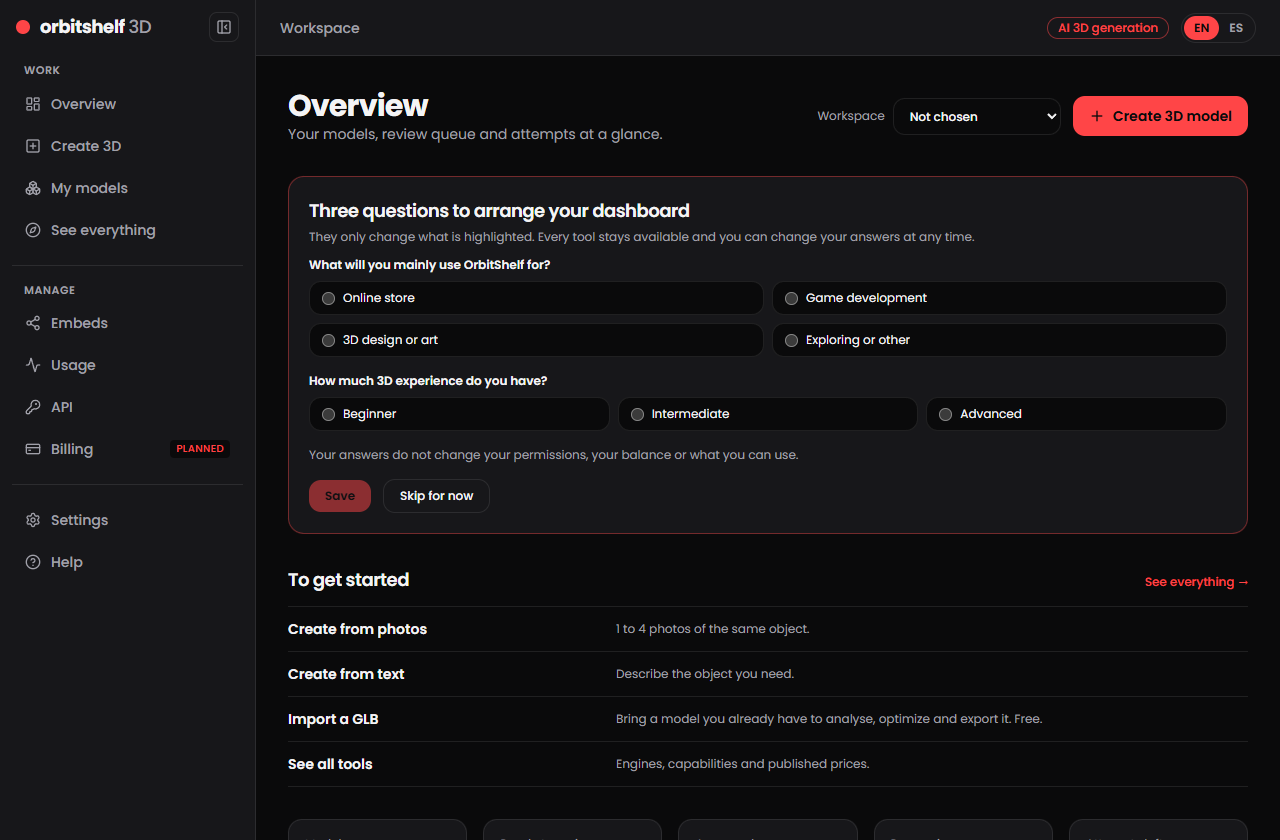
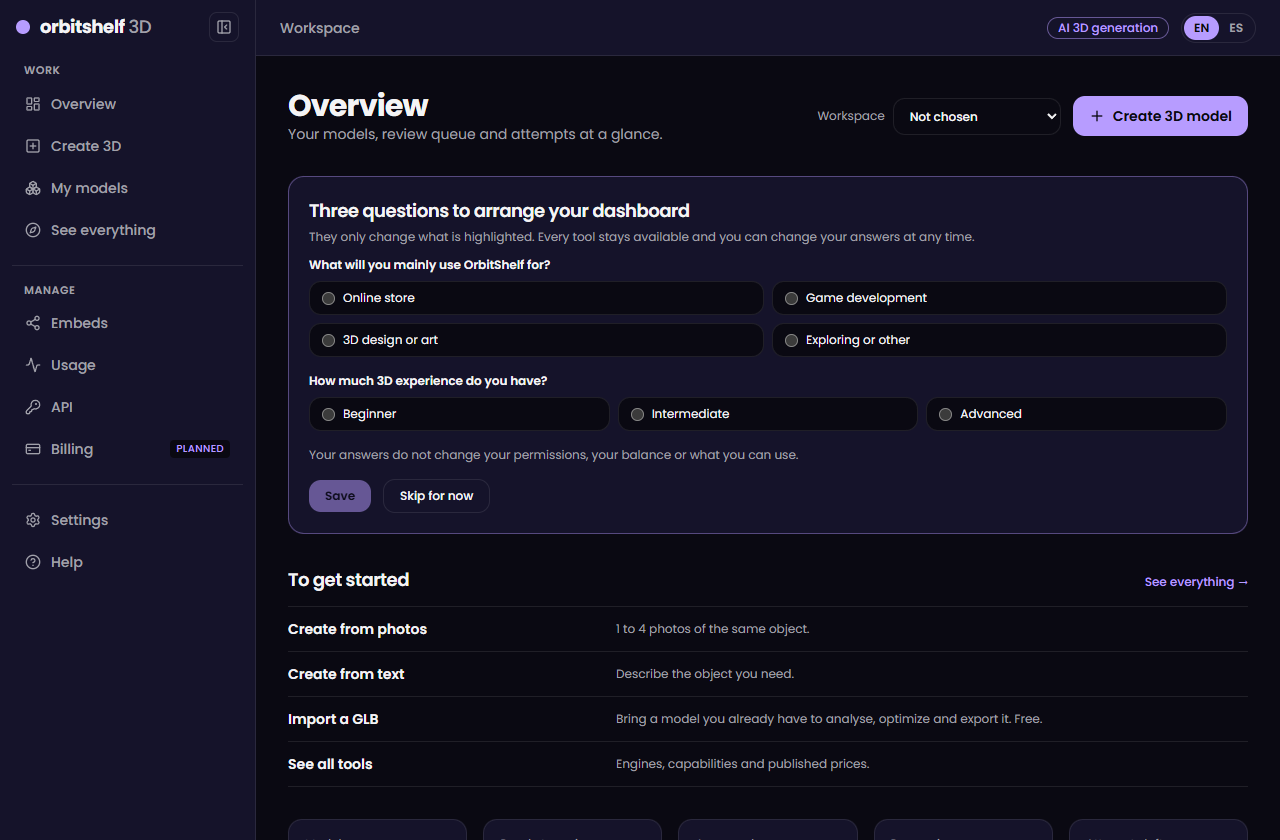
Paleta violeta sin manchas de luz de fondo; script de capturas rápidas

diff --git a/src/app/[locale]/page.tsx b/src/app/[locale]/page.tsx
@@ -191,7 +191,7 @@ export default async function HomePage({ params }: Props) {
               <div className="flex items-center gap-4 sm:gap-6">
                 <span
                   aria-hidden="true"
-                  className="mesh-lines flex h-24 w-28 shrink-0 items-center justify-center rounded-2xl border border-line bg-[#1b0b0c] sm:h-28 sm:w-36"
+                  className="mesh-lines flex h-24 w-28 shrink-0 items-center justify-center rounded-2xl border border-line bg-[#151230] sm:h-28 sm:w-36"
                 >
                   <ImageIcon className="h-8 w-8 text-accent" />
                 </span>
@@ -416,7 +416,7 @@ export default async function HomePage({ params }: Props) {
                     <span className="flex h-9 w-9 items-center justify-center rounded-lg bg-white/10 text-sm font-semibold tabular-nums" aria-hidden="true">
                       {i + 1}
                     </span>
-                    <span aria-hidden="true" className="mesh-lines flex h-16 w-24 items-center justify-center rounded-xl bg-[#1b0b0c]">
+                    <span aria-hidden="true" className="mesh-lines flex h-16 w-24 items-center justify-center rounded-xl bg-[#151230]">
                       <Icon className="h-7 w-7 text-accent" />
                     </span>
                   </div>
@@ -477,7 +477,7 @@ export default async function HomePage({ params }: Props) {
 
           <Card lift className="flex flex-col justify-between gap-8 md:col-span-3">
             <div className="space-y-5">
-              <span aria-hidden="true" className="mesh-lines flex h-16 w-24 items-center justify-center rounded-xl bg-[#1b0b0c]">
+              <span aria-hidden="true" className="mesh-lines flex h-16 w-24 items-center justify-center rounded-xl bg-[#151230]">
                 <Gamepad2 className="h-7 w-7 text-accent" />
               </span>
               <CardBody tag={h.who.games.tag} title={h.who.games.title} text={h.who.games.text} />
@@ -488,7 +488,7 @@ export default async function HomePage({ params }: Props) {
 
           <Card lift tone="outline" className="flex flex-col justify-between gap-8 md:col-span-3">
             <div className="space-y-5">
-              <span aria-hidden="true" className="mesh-lines flex h-16 w-24 items-center justify-center rounded-xl bg-[#1b0b0c]">
+              <span aria-hidden="true" className="mesh-lines flex h-16 w-24 items-center justify-center rounded-xl bg-[#151230]">
                 <PenTool className="h-7 w-7 text-accent" />
               </span>
               <CardBody tag={h.who.design.tag} title={h.who.design.title} text={h.who.design.text} />
@@ -510,7 +510,7 @@ export default async function HomePage({ params }: Props) {
             </figure>
             <figure className="flex flex-col items-center gap-3 rounded-2xl border border-line bg-bg px-4 py-6">
               <span aria-hidden="true" className="relative block h-40 w-28 bg-accent sm:h-52 sm:w-36" style={{ clipPath: VASE }}>
-                <span className="mesh-lines absolute inset-[2px] block bg-[#1b0b0c]" style={{ clipPath: VASE }} />
+                <span className="mesh-lines absolute inset-[2px] block bg-[#151230]" style={{ clipPath: VASE }} />
               </span>
               <figcaption className="text-sm font-medium text-fg">{h.twinMesh}</figcaption>
             </figure>

diff --git a/src/app/globals.css b/src/app/globals.css
@@ -22,20 +22,20 @@
 
 /*
  * Palette: near-black, off-white text, blood red.
- * Contrast (WCAG), measured on --bg: fg 18:1, muted 7.6:1, accent (vivid red, for text and small fills) 5.8:1 (4.7:1 on --surface-2).
- * --blood is a fill only (1.6:1 on black): it always carries white text (10:1).
+ * Contrast (WCAG), measured on --bg: fg 18:1, muted 7.6:1, accent (soft violet, for text and small fills) 5.8:1 (4.7:1 on --surface-2).
+ * --blood is a violet fill only: it always carries white text (10:1).
  */
 :root {
-  --bg: #0a0a0b;
-  --surface: #17171a;
-  --surface-2: #222226;
+  --bg: #0a0912;
+  --surface: #15132a;
+  --surface-2: #1f1c3a;
   --line: rgb(255 255 255 / 0.09);
   --fg: #f4f4f5;
   --muted: #a1a1aa;
-  --accent: #ff4547;
-  --accent-strong: #ff6769;
-  --blood: #8b0000;
-  --blood-hi: #b01012;
+  --accent: #b79cff;
+  --accent-strong: #cdbbff;
+  --blood: #5b3df5;
+  --blood-hi: #6a4cf7;
   --ink: #0a0a0b;
   --danger: #ff7a7a;
   --warn: #f5b942;
@@ -46,9 +46,9 @@
 }
 
 [data-theme="app"] {
-  --bg: #0a0a0b;
-  --surface: #17171a;
-  --surface-2: #222226;
+  --bg: #0a0912;
+  --surface: #15132a;
+  --surface-2: #1f1c3a;
   --muted: #a1a1aa;
 }
 
@@ -105,7 +105,7 @@
   position: absolute;
   border-radius: 999px;
   pointer-events: none;
-  background: radial-gradient(closest-side, rgb(139 0 0 / 0.55), rgb(139 0 0 / 0));
+  background: radial-gradient(closest-side, rgb(91 61 245 / 0.28), rgb(91 61 245 / 0));
 }
 
 /* ---------- Floating pill navbar ---------- */
@@ -201,7 +201,7 @@
   color: #fff;
 }
 .btn-solid:hover {
-  background: linear-gradient(135deg, #cc1417, #a00a0c);
+  background: linear-gradient(135deg, #7a5cff, #4a2fe0);
 }
 .btn-ink {
   background: var(--fg);
@@ -224,7 +224,7 @@
   letter-spacing: -0.035em;
 }
 .text-blood-grad {
-  background: linear-gradient(95deg, #ff5a5c 0%, #ef2b2d 45%, #b01012 100%);
+  background: linear-gradient(95deg, #cdbbff 0%, #a78bfa 45%, #7a5cff 100%);
   -webkit-background-clip: text;
   background-clip: text;
   color: transparent;
@@ -232,8 +232,8 @@
 /* Wireframe look for the "same model, solid and mesh" pair: a pure CSS grid, not a render. */
 .mesh-lines {
   background-image:
-    linear-gradient(rgb(239 43 45 / 0.5) 1px, transparent 1px),
-    linear-gradient(90deg, rgb(239 43 45 / 0.5) 1px, transparent 1px);
+    linear-gradient(rgb(167 139 250 / 0.5) 1px, transparent 1px),
+    linear-gradient(90deg, rgb(167 139 250 / 0.5) 1px, transparent 1px);
   background-size: 22px 22px;
 }
 

diff --git a/src/components/marketing-shell.tsx b/src/components/marketing-shell.tsx
@@ -159,7 +159,7 @@ export function MarketingShell({
                 className="group flex h-full flex-col gap-3 rounded-2xl p-2 transition-colors hover:bg-white/[0.06]"
               >
                 {/* A drawn tile stands in for a screenshot: no real screenshots exist yet. */}
-                <span className="mesh-lines relative flex h-24 items-center justify-center overflow-hidden rounded-xl bg-[#1b0b0c]">
+                <span className="mesh-lines relative flex h-24 items-center justify-center overflow-hidden rounded-xl bg-[#151230]">
                   <Icon className="h-8 w-8 text-accent" aria-hidden="true" />
                 </span>
                 <span className="px-1 pb-1">
@@ -192,11 +192,6 @@ export function MarketingShell({
         {dict.common.skipToContent}
       </a>
 
-      {/* Background light: two blood-red pools. They sit behind everything and never take clicks. */}
-      <div aria-hidden="true" className="pointer-events-none absolute inset-x-0 top-0 -z-0 h-[1100px] overflow-hidden">
-        <div className="glow -left-40 -top-32 h-[620px] w-[620px]" />
-        <div className="glow -right-48 top-24 h-[520px] w-[520px] opacity-70" />
-      </div>
 
       {/* Floating pill: small, fixed, centred. Dropdown panels open under it. */}
       <header ref={headerRef} className="fixed inset-x-0 top-3 z-40 px-3">

diff --git a/src/components/marketing-kit.tsx b/src/components/marketing-kit.tsx
@@ -204,9 +204,9 @@ export function ClosingBanner({ titleA, titleB, cta, href, note }: { titleA: str
       <div
         className="reveal relative flex w-full flex-col items-center gap-6 overflow-hidden rounded-[var(--radius-card)] px-6 py-20 text-center md:py-28"
         style={{
-          backgroundColor: "#1a0506",
+          backgroundColor: "#0f0c24",
           backgroundImage: [
-            "radial-gradient(ellipse 70% 90% at 50% 120%, #8b0000 0%, rgb(139 0 0 / 0) 70%)",
+            "radial-gradient(ellipse 70% 90% at 50% 120%, #4a2fe0 0%, rgb(74 47 224 / 0) 70%)",
             "radial-gradient(1.5px 1.5px at 12% 24%, #fff, transparent)",
             "radial-gradient(1px 1px at 27% 68%, #fff, transparent)",
             "radial-gradient(1.5px 1.5px at 41% 15%, #fff, transparent)",
@@ -223,7 +223,7 @@ export function ClosingBanner({ titleA, titleB, cta, href, note }: { titleA: str
         <h2 className="text-[clamp(2rem,5vw,3.75rem)] font-semibold leading-[1.05]">
           {titleA}
           <br />
-          <span className="bg-gradient-to-r from-white to-[#ffb3b3] bg-clip-text text-transparent">{titleB}</span>
+          <span className="bg-gradient-to-r from-white to-[#d9ccff] bg-clip-text text-transparent">{titleB}</span>
         </h2>
         <Link href={href} className="btn-pill btn-ink py-3.5">
           {cta}

diff --git a/src/components/model-silhouette.tsx b/src/components/model-silhouette.tsx
@@ -22,7 +22,7 @@ export function ModelSilhouette({ kind, mesh = false, className = "h-16 w-16" }:
           <stop offset="1" stopColor="#5a0000" />
         </linearGradient>
         <pattern id={`${id}m`} width="8" height="8" patternUnits="userSpaceOnUse">
-          <path d="M8 0H0V8" fill="none" stroke="#ff4547" strokeOpacity="0.75" strokeWidth="0.9" />
+          <path d="M8 0H0V8" fill="none" stroke="#b79cff" strokeOpacity="0.75" strokeWidth="0.9" />
         </pattern>
       </defs>
       {SHAPES[kind].map((d) => (
@@ -30,7 +30,7 @@ export function ModelSilhouette({ kind, mesh = false, className = "h-16 w-16" }:
           key={d}
           d={d}
           fill={mesh ? `url(#${id}m)` : `url(#${id}g)`}
-          stroke={mesh ? "#ff4547" : "none"}
+          stroke={mesh ? "#b79cff" : "none"}
           strokeWidth={mesh ? 1.6 : 0}
           strokeLinejoin="round"
         />

diff --git a/src/app/[locale]/integrations/page.tsx b/src/app/[locale]/integrations/page.tsx
@@ -166,7 +166,7 @@ export default async function IntegrationsPage({ params }: Props) {
             role="img"
             aria-label={c.hero.diagramLabel}
             data-testid="integrations-diagram"
-            className="mesh-lines mx-auto flex max-w-3xl flex-col items-center gap-6 rounded-[24px] border border-line bg-[#1b0b0c] px-5 py-8 md:flex-row md:justify-center md:gap-8"
+            className="mesh-lines mx-auto flex max-w-3xl flex-col items-center gap-6 rounded-[24px] border border-line bg-[#151230] px-5 py-8 md:flex-row md:justify-center md:gap-8"
           >
             <Tile tone="blood" label={d.model}>
               <Box className="h-6 w-6" />

diff --git a/src/app/[locale]/how-it-works/page.tsx b/src/app/[locale]/how-it-works/page.tsx
@@ -70,7 +70,7 @@ export default async function HowItWorksPage({ params }: Props) {
                   <span className="flex h-9 w-9 items-center justify-center rounded-lg bg-blood text-sm font-semibold tabular-nums text-white">
                     {i + 1}
                   </span>
-                  <span aria-hidden="true" className="mesh-lines flex h-14 w-20 items-center justify-center rounded-xl bg-[#1b0b0c]">
+                  <span aria-hidden="true" className="mesh-lines flex h-14 w-20 items-center justify-center rounded-xl bg-[#151230]">
                     <Icon className="h-6 w-6 text-accent" />
                   </span>
                 </div>

diff --git a/src/components/home/hero-shelf.tsx b/src/components/home/hero-shelf.tsx
@@ -50,7 +50,7 @@ export function HeroShelf({
       <div
         aria-hidden="true"
         className="pointer-events-none absolute inset-x-0 top-[44%] -translate-y-1/2 select-none text-center text-[clamp(10rem,24vw,19rem)] font-bold leading-none text-transparent"
-        style={{ WebkitTextStroke: "1.5px rgb(239 43 45 / 0.38)" }}
+        style={{ WebkitTextStroke: "1.5px rgb(167 139 250 / 0.38)" }}
       >
         {ghostWord}
       </div>

diff --git a/src/app/global-not-found.tsx b/src/app/global-not-found.tsx
@@ -30,7 +30,7 @@ export default function GlobalNotFound() {
             <div
               aria-hidden="true"
               className="select-none text-[clamp(5rem,22vw,8rem)] font-bold leading-none text-transparent"
-              style={{ WebkitTextStroke: "1.5px rgb(239 43 45 / 0.5)" }}
+              style={{ WebkitTextStroke: "1.5px rgb(167 139 250 / 0.5)" }}
             >
               404
             </div>

diff --git a/src/app/[locale]/not-found.tsx b/src/app/[locale]/not-found.tsx
@@ -23,7 +23,7 @@ export default function NotFoundPage() {
         <div
           aria-hidden="true"
           className="select-none text-[clamp(5rem,22vw,8rem)] font-bold leading-none text-transparent"
-          style={{ WebkitTextStroke: "1.5px rgb(239 43 45 / 0.5)" }}
+          style={{ WebkitTextStroke: "1.5px rgb(167 139 250 / 0.5)" }}
         >
           404
         </div>
